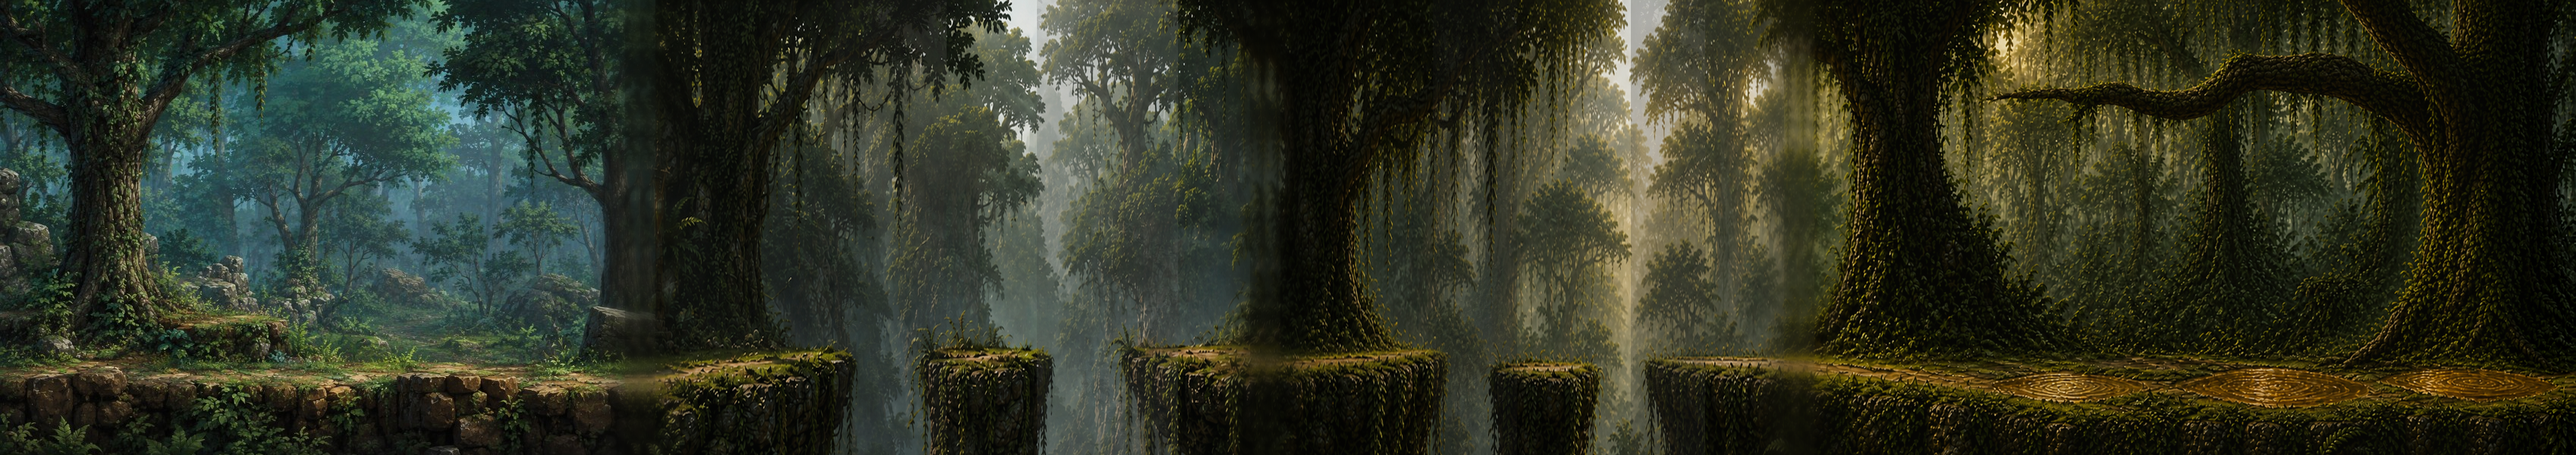
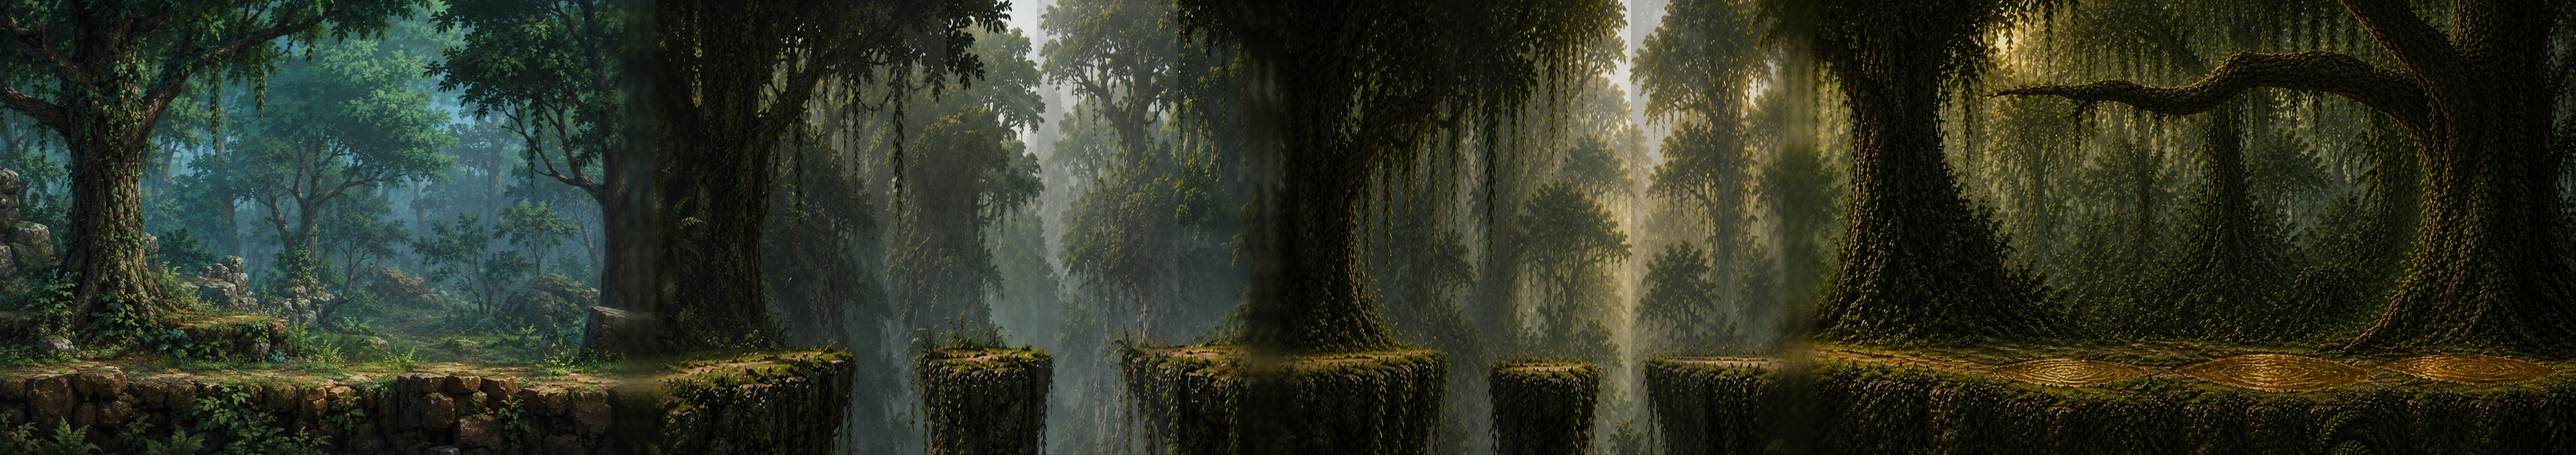
Alinha os pés do Yáguar à superfície das poças de areia neste trecho da floresta.

diff --git a/src/config.py b/src/config.py
@@ -173,14 +173,14 @@ SAND_WORLD_WIDTH = SAND_DRAW_X + SCREEN_WIDTH
 
 # ---------------------------------------------------------------------------
 # Floresta após a areia — chão contínuo, poças pintadas no caminho.
-# Fonte 1536×1024: lábio da trilha ~680. Sem fendas: uma laje só.
+# Fonte 1536×1024: superfície das poças ~706, para os pés caírem na areia.
 # A pintura começa na última árvore da clareira: sobrepõe 320 px para o
 # tronco não aparecer duas vezes na costura.
 # ---------------------------------------------------------------------------
 CONTINUE_SEAM_OVERLAP = 320
 CONTINUE_ORIGIN_X = SAND_WORLD_WIDTH
 CONTINUE_DRAW_X = CONTINUE_ORIGIN_X - CONTINUE_SEAM_OVERLAP
-CONTINUE_SRC_GROUND_Y = 680
+CONTINUE_SRC_GROUND_Y = 706
 CONTINUE_A_X = CONTINUE_ORIGIN_X + 0
 CONTINUE_WORLD_WIDTH = CONTINUE_DRAW_X + SCREEN_WIDTH
 CONTINUE_PLATFORM_WIDTH = CONTINUE_WORLD_WIDTH - CONTINUE_ORIGIN_X
